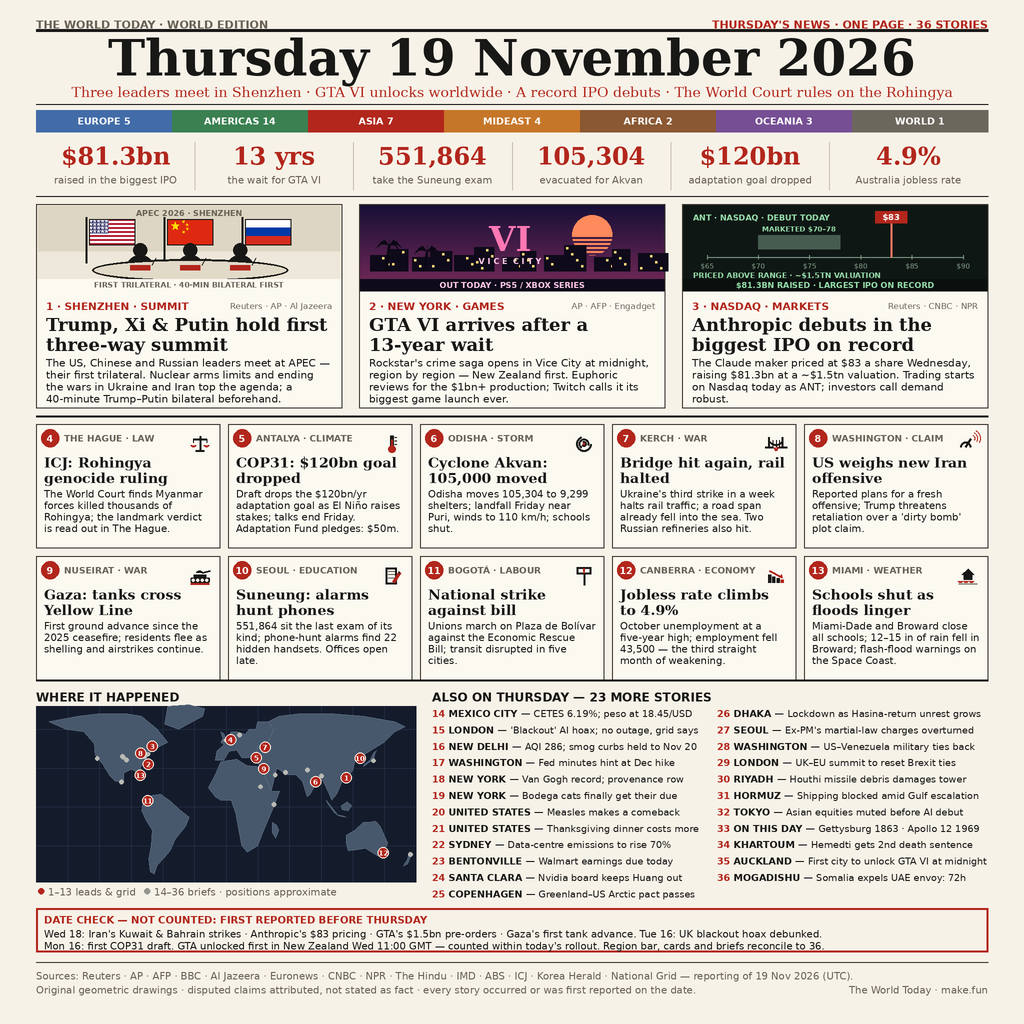
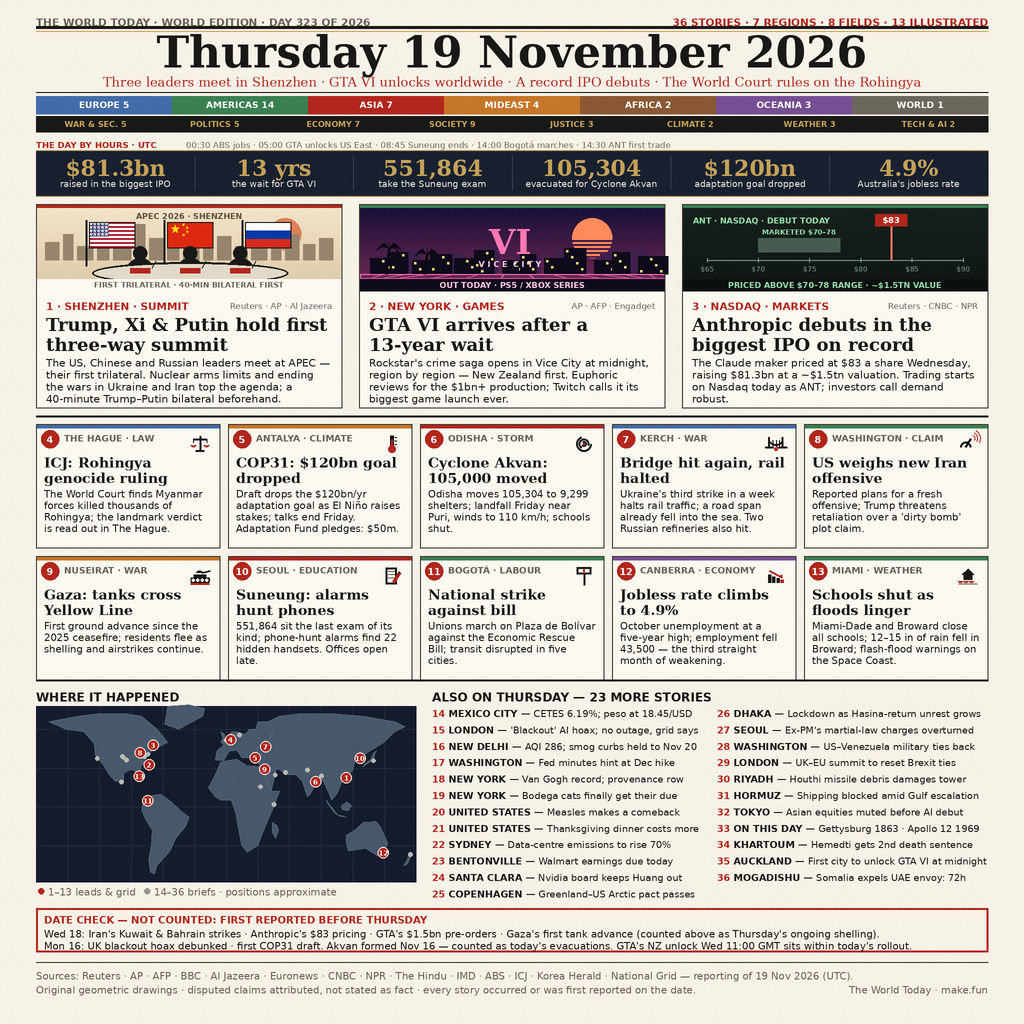
v3: dual region/field tallies, UTC ticker, navy-gold figures band, gradient skies, region card rules, paper grain; fix grid bleed, IPO caption, map spacing, date-check weekday

diff --git a/tools/make_image.py b/tools/make_image.py
@@ -26,6 +26,7 @@ CARD = (252, 249, 241)
 INK = (24, 24, 22)
 GRAY = (104, 98, 86)
 RED = (178, 38, 28)
+GOLD = (196, 162, 88)
 LINE = (60, 56, 48)
 PANEL = (238, 232, 218)
 NAVY = (20, 28, 44)
@@ -126,9 +127,19 @@ def flag_ru(d, x, y, w, h):
 # ── lead illustrations (panels 306 x 86) ─────────────────────────────────────
 
 def art_summit(d, x, y, w, h):
-    d.rectangle(R(x, y, x + w, y + h), fill=PANEL)
-    d.rectangle(R(x + 1, y + 1, x + w - 1, y + 46), fill=(222, 214, 196))
-    d.text(T(x + w / 2, y + 8), "APEC 2026 · SHENZHEN", font=font(F_SANS_B, 8), fill=GRAY, anchor="mm")
+    # gradient dusk sky, low sun, distant Shenzhen skyline — flat foreground on top
+    for i in range(int(h)):
+        t = i / h
+        d.rectangle(R(x, y + i, x + w, y + i + 1),
+                    fill=(int(242 - 22 * t), int(228 - 28 * t), int(202 - 36 * t)))
+    d.ellipse(R(x + w - 72, y + 10, x + w - 40, y + 42), fill=(224, 128, 86))
+    sil = (150, 132, 108)
+    for bx, bw, bh in [(8, 14, 18), (26, 10, 26), (40, 16, 14), (60, 12, 30), (76, 18, 20),
+                       (98, 10, 36), (112, 14, 22), (130, 12, 16), (146, 16, 28), (166, 10, 18),
+                       (180, 14, 24), (198, 12, 14), (214, 16, 32), (234, 10, 20), (248, 14, 26),
+                       (266, 12, 16), (282, 14, 22)]:
+        d.rectangle(R(x + bx, y + 52 - bh, x + bx + bw, y + 52), fill=sil)
+    d.text(T(x + w / 2, y + 8), "APEC 2026 · SHENZHEN", font=font(F_SANS_B, 8), fill=(96, 82, 62), anchor="mm")
     fy, fh, fw = y + 14, 26, 46
     for fx, fn in [(x + 52, flag_us), (x + 130, flag_cn), (x + 208, flag_ru)]:
         d.line([T(fx - 3, fy - 2), T(fx - 3, y + 58)], fill=INK, width=2 * S)
@@ -155,6 +166,9 @@ def art_gta(d, x, y, w, h):
     for i in range(5):
         yy = sy + 2 + i * 4
         d.rectangle(R(sx - sr, yy, sx + sr, yy + 1.6), fill=(int(24 + 96 * (yy - y) / h), int(16 + 26 * (yy - y) / h), int(54 + 36 * (yy - y) / h)))
+    for bx, bw, bh in [(16, 20, 12), (44, 16, 18), (84, 22, 14), (120, 18, 20),
+                       (156, 24, 12), (196, 16, 16), (240, 20, 14), (268, 18, 18)]:
+        d.rectangle(R(x + bx, y + 60 - bh, x + bx + bw, y + 66), fill=(62, 32, 78))
     buildings = [(10, 26, 16), (30, 18, 22), (52, 30, 14), (70, 22, 20), (94, 34, 16),
                  (114, 20, 24), (142, 28, 14), (160, 16, 20), (184, 32, 16), (204, 22, 26),
                  (234, 26, 14), (252, 18, 22), (278, 30, 18)]
@@ -165,6 +179,12 @@ def art_gta(d, x, y, w, h):
                 if (wi * 7 + wj * 13 + bx) % 4 == 0:
                     d.rectangle(R(x + bx + 2 + wi * 5, y + 66 - bh + 2 + wj * 6,
                                   x + bx + 4 + wi * 5, y + 66 - bh + 4 + wj * 6), fill=(255, 214, 120))
+    for gx in range(0, int(w) + 1, 24):
+        x2 = min(max(x + w / 2 + (gx - w / 2) * 1.8, x), x + w)
+        d.line([T(x + gx, y + 66), T(x2, y + 74)], fill=(255, 110, 180), width=S)
+    d.line([T(x, y + 66), T(x + w, y + 66)], fill=(255, 110, 180), width=S)
+    d.line([T(x, y + 70), T(x + w, y + 70)], fill=(200, 80, 150), width=S)
+
     def palm(px, py, ph):
         topx, topy = px + 3, py - ph
         d.polygon([T(px - 1.5, py), T(px + 1.5, py), T(topx + 1, topy), T(topx - 1, topy)], fill=(10, 8, 20))
@@ -185,7 +205,10 @@ def art_gta(d, x, y, w, h):
 
 
 def art_ipo(d, x, y, w, h):
-    d.rectangle(R(x, y, x + w, y + h), fill=(15, 23, 20))
+    for i in range(int(h)):
+        t = i / h
+        d.rectangle(R(x, y + i, x + w, y + i + 1),
+                    fill=(int(22 - 8 * t), int(32 - 10 * t), int(27 - 8 * t)))
     d.text(T(x + 10, y + 8), "ANT · NASDAQ · DEBUT TODAY", font=font(F_SANS_B, 8), fill=(150, 220, 170))
     ax0, ax1 = x + 24, x + w - 24
 
@@ -202,9 +225,8 @@ def art_ipo(d, x, y, w, h):
     d.line([T(px(83), y + 18), T(px(83), ay)], fill=(255, 120, 100), width=2 * S)
     d.rectangle(R(px(83) - 16, y + 6, px(83) + 16, y + 18), fill=RED)
     d.text(T(px(83), y + 12), "$83", font=font(F_SANS_B, 8.5), fill=(255, 255, 255), anchor="mm")
-    d.text(T(x + 10, y + 66), "PRICED ABOVE RANGE · ~$1.5TN VALUATION", font=font(F_SANS_B, 7.5), fill=(150, 220, 170))
     d.rectangle(R(x, y + h - 12, x + w, y + h), fill=(10, 16, 14))
-    d.text(T(x + w / 2, y + h - 6), "$81.3BN RAISED · LARGEST IPO ON RECORD", font=font(F_SANS_B, 8), fill=(150, 220, 170), anchor="mm")
+    d.text(T(x + w / 2, y + h - 6), "PRICED ABOVE $70–78 RANGE · ~$1.5TN VALUE", font=font(F_SANS_B, 8), fill=(150, 220, 170), anchor="mm")
 
 
 # ── grid icons (24 px boxes) ─────────────────────────────────────────────────
@@ -383,10 +405,26 @@ STATS = [
     ("$81.3bn", "raised in the biggest IPO"),
     ("13 yrs", "the wait for GTA VI"),
     ("551,864", "take the Suneung exam"),
-    ("105,304", "evacuated for Akvan"),
+    ("105,304", "evacuated for Cyclone Akvan"),
     ("$120bn", "adaptation goal dropped"),
-    ("4.9%", "Australia jobless rate"),
+    ("4.9%", "Australia's jobless rate"),
 ]
+
+# second classification axis: every story also belongs to one of eight fields
+FIELD_OF = {
+    1: "POLITICS & DIPLOMACY", 2: "SOCIETY & CULTURE", 3: "ECONOMY & LABOUR",
+    4: "JUSTICE", 5: "CLIMATE & ENVIRONMENT", 6: "DISASTERS & WEATHER",
+    7: "WAR & SECURITY", 8: "WAR & SECURITY", 9: "WAR & SECURITY",
+    10: "SOCIETY & CULTURE", 11: "ECONOMY & LABOUR", 12: "ECONOMY & LABOUR",
+    13: "DISASTERS & WEATHER", 14: "ECONOMY & LABOUR", 15: "TECH & AI",
+    16: "DISASTERS & WEATHER", 17: "ECONOMY & LABOUR", 18: "SOCIETY & CULTURE",
+    19: "SOCIETY & CULTURE", 20: "SOCIETY & CULTURE", 21: "SOCIETY & CULTURE",
+    22: "CLIMATE & ENVIRONMENT", 23: "ECONOMY & LABOUR", 24: "TECH & AI",
+    25: "POLITICS & DIPLOMACY", 26: "SOCIETY & CULTURE", 27: "JUSTICE",
+    28: "POLITICS & DIPLOMACY", 29: "POLITICS & DIPLOMACY", 30: "WAR & SECURITY",
+    31: "WAR & SECURITY", 32: "ECONOMY & LABOUR", 33: "SOCIETY & CULTURE",
+    34: "JUSTICE", 35: "SOCIETY & CULTURE", 36: "POLITICS & DIPLOMACY",
+}
 
 # stylized continent outlines (lon, lat) for the locator map
 CONTINENTS = [
@@ -440,16 +478,16 @@ def draw_map(d, x, y, w, h):
         px, py = proj(s["lon"], s["lat"])
         d.ellipse(R(px - 2.2, py - 2.2, px + 2.2, py + 2.2), fill=(186, 186, 180))
     pins = [[*proj(s["lon"], s["lat"]), s["n"]] for s in LEADS + GRID]
-    for _ in range(24):
+    for _ in range(40):
         for i in range(len(pins)):
             for j in range(i + 1, len(pins)):
                 dx = pins[j][0] - pins[i][0]
                 dy = pins[j][1] - pins[i][1]
                 dist = math.hypot(dx, dy)
-                if dist < 13.5:
+                if dist < 15:
                     if dist < 0.01:
                         dx, dy, dist = 1.0, 0.3, 1.04
-                    push = (13.5 - dist) / 2
+                    push = (15 - dist) / 2
                     ux, uy = dx / dist, dy / dist
                     pins[i][0] -= ux * push
                     pins[i][1] -= uy * push
@@ -460,6 +498,25 @@ def draw_map(d, x, y, w, h):
         py = min(max(py, y + 6), y + h - 6)
         d.ellipse(R(px - 5.5, py - 5.5, px + 5.5, py + 5.5), fill=RED, outline=PAPER, width=S)
         d.text(T(px, py + 0.3), str(n), font=font(F_SANS_B, 7), fill=(255, 255, 255), anchor="mm")
+
+
+def grain(img):
+    """Deterministic paper-grain overlay: kills the sterile-vector look."""
+    import random
+    rng = random.Random(20261119)
+    tile = Image.new("RGBA", (128, 128), (0, 0, 0, 0))
+    px = tile.load()
+    for ty in range(128):
+        for tx in range(128):
+            r = rng.random()
+            if r < 0.06:
+                v = 0 if r < 0.03 else 255
+                px[tx, ty] = (v, v, v, 10)
+    overlay = Image.new("RGBA", img.size, (0, 0, 0, 0))
+    for oy in range(0, img.size[1], 128):
+        for ox in range(0, img.size[0], 128):
+            overlay.paste(tile, (ox, oy))
+    return Image.alpha_composite(img.convert("RGBA"), overlay).convert("RGB")
 
 
 def main():
@@ -474,12 +531,15 @@ def main():
     img = Image.new("RGB", (W * S, H * S), PAPER)
     d = ImageDraw.Draw(img)
 
-    f_run = font(F_SANS_B, 11)
-    f_date = font(F_SERIF_B, 50)
-    f_deck = font(F_SERIF, 13.8)
-    f_tally = font(F_SANS_B, 9.5)
-    f_stat = font(F_SERIF_B, 24)
-    f_statcap = font(F_SANS, 10)
+    f_run = font(F_SANS_B, 10.5)
+    f_date = font(F_SERIF_B, 44)
+    f_deck = font(F_SERIF, 13)
+    f_tally = font(F_SANS_B, 9)
+    f_field = font(F_SANS_B, 8)
+    f_time = font(F_SANS, 8.5)
+    f_timeb = font(F_SANS_B, 8.5)
+    f_stat = font(F_SERIF_B, 22)
+    f_statcap = font(F_SANS, 9)
     f_kick = font(F_SANS_B, 10.5)
     f_lhead = font(F_SERIF_B, 18)
     f_lbody = font(F_SANS, 10.4)
@@ -495,14 +555,15 @@ def main():
     f_foot = font(F_SANS, 9.8)
 
     # ── running head + nameplate date ──
-    d.text(T(M, 18), "THE WORLD TODAY · WORLD EDITION", font=f_run, fill=GRAY)
-    d.text(T(W - M, 18), "THURSDAY'S NEWS · ONE PAGE · 36 STORIES", font=f_run, fill=RED, anchor="ra")
-    d.line([T(M, 30), T(W - M, 30)], fill=INK, width=3 * S)
-    d.text(T(W / 2, 58), "Thursday 19 November 2026", font=f_date, fill=INK, anchor="mm")
+    d.text(T(M, 16), "THE WORLD TODAY · WORLD EDITION · DAY 323 OF 2026", font=f_run, fill=GRAY)
+    d.text(T(W - M, 16), "36 STORIES · 7 REGIONS · 8 FIELDS · 13 ILLUSTRATED", font=f_run, fill=RED, anchor="ra")
+    d.line([T(M, 27), T(W - M, 27)], fill=INK, width=3 * S)
+    d.line([T(M, 31), T(W - M, 31)], fill=GOLD, width=S)
+    d.text(T(W / 2, 52), "Thursday 19 November 2026", font=f_date, fill=INK, anchor="mm")
     deck = "Three leaders meet in Shenzhen · GTA VI unlocks worldwide · A record IPO debuts · The World Court rules on the Rohingya"
     assert d.textlength(deck, font=f_deck) <= CW * S, "deck too wide"
-    d.text(T(W / 2, 92), deck, font=f_deck, fill=RED, anchor="mm")
-    d.line([T(M, 104), T(W - M, 104)], fill=INK, width=S)
+    d.text(T(W / 2, 82), deck, font=f_deck, fill=RED, anchor="mm")
+    d.line([T(M, 92), T(W - M, 92)], fill=INK, width=S)
 
     # ── region tally bar (counts derived from the story data) ──
     order = ["EUROPE", "AMERICAS", "ASIA", "MIDEAST", "AFRICA", "OCEANIA", "WORLD"]
@@ -510,22 +571,48 @@ def main():
     segw = CW / len(order)
     for reg in order:
         cnt = tally.get(reg, 0)
-        d.rectangle(R(tx, 110, tx + segw, 132), fill=REGIONS[reg])
-        d.text(T(tx + segw / 2, 121), f"{reg} {cnt}", font=f_tally, fill=(255, 255, 255), anchor="mm")
+        d.rectangle(R(tx, 96, tx + segw, 114), fill=REGIONS[reg])
+        d.text(T(tx + segw / 2, 105), f"{reg} {cnt}", font=f_tally, fill=(255, 255, 255), anchor="mm")
         tx += segw
 
-    # ── key figures strip ──
+    # ── field tally bar: the same 36 stories by subject ──
+    ford = ["WAR & SECURITY", "POLITICS & DIPLOMACY", "ECONOMY & LABOUR", "SOCIETY & CULTURE",
+            "JUSTICE", "CLIMATE & ENVIRONMENT", "DISASTERS & WEATHER", "TECH & AI"]
+    ftally = {}
+    for s in all_stories:
+        f = FIELD_OF[s["n"]]
+        ftally[f] = ftally.get(f, 0) + 1
+    assert sum(ftally.values()) == 36 and len(ftally) == 8
+    d.rectangle(R(M, 116, W - M, 132), fill=INK)
+    fshort = {"WAR & SECURITY": "WAR & SEC.", "POLITICS & DIPLOMACY": "POLITICS",
+              "ECONOMY & LABOUR": "ECONOMY", "SOCIETY & CULTURE": "SOCIETY",
+              "JUSTICE": "JUSTICE", "CLIMATE & ENVIRONMENT": "CLIMATE",
+              "DISASTERS & WEATHER": "WEATHER", "TECH & AI": "TECH & AI"}
+    fw = CW / 8
+    for i, f in enumerate(ford):
+        label = f"{fshort[f]} {ftally[f]}"
+        assert d.textlength(label, font=f_field) <= (fw - 4) * S, f"field label too wide: {label}"
+        d.text(T(M + i * fw + fw / 2, 124), label, font=f_field, fill=GOLD, anchor="mm")
+
+    # ── the day by hours (UTC anchors verified from the reporting) ──
+    d.text(T(M, 140), "THE DAY BY HOURS · UTC", font=f_timeb, fill=RED)
+    ticker = "00:30 ABS jobs · 05:00 GTA unlocks US East · 08:45 Suneung ends · 14:00 Bogotá marches · 14:30 ANT first trade"
+    assert d.textlength(ticker, font=f_time) <= (CW - 150) * S, "ticker too wide"
+    d.text(T(M + 150, 140), ticker, font=f_time, fill=GRAY)
+
+    # ── key figures: navy band, gold serif figures ──
+    d.rectangle(R(M, 150, W - M, 196), fill=(24, 32, 48))
+    d.line([T(M, 150), T(W - M, 150)], fill=GOLD, width=S)
+    d.line([T(M, 196), T(W - M, 196)], fill=GOLD, width=S)
     cellw = CW / 6
     for i, (num, cap) in enumerate(STATS):
         cx = M + i * cellw
         if i:
-            d.line([T(cx, 142), T(cx, 190)], fill=(200, 193, 178), width=S)
-        d.text(T(cx + cellw / 2, 156), num, font=f_stat, fill=RED, anchor="mm")
+            d.line([T(cx, 156), T(cx, 190)], fill=(52, 62, 82), width=S)
+        d.text(T(cx + cellw / 2, 168), num, font=f_stat, fill=GOLD, anchor="mm")
         lines = wrap(d, cap, f_statcap, cellw - 12)
-        assert len(lines) <= 2, f"stat caption too long: {cap}"
-        for j, ln in enumerate(lines):
-            d.text(T(cx + cellw / 2, 174 + j * 11), ln, font=f_statcap, fill=GRAY, anchor="ma")
-    d.line([T(M, 196), T(W - M, 196)], fill=INK, width=S)
+        assert len(lines) == 1, f"stat caption wraps: {cap}"
+        d.text(T(cx + cellw / 2, 184), cap, font=f_statcap, fill=(232, 228, 216), anchor="mm")
 
     # ── three lead cards ──
     lw, lh, lgap = (CW - 2 * 17) / 3, 204, 17
@@ -533,7 +620,8 @@ def main():
         x0 = M + i * (lw + lgap)
         y0 = 204
         d.rectangle(R(x0, y0, x0 + lw, y0 + lh), fill=CARD, outline=LINE, width=S)
-        s["art"](d, x0 + 1, y0 + 1, lw - 2, 86)
+        d.rectangle(R(x0 + 1, y0 + 1, x0 + lw - 1, y0 + 4), fill=REGIONS[s["region"]])
+        s["art"](d, x0 + 1, y0 + 4, lw - 2, 83)
         d.text(T(x0 + 10, y0 + 96), f"{s['n']} · {s['city']} · {s['topic']}", font=f_kick, fill=RED)
         d.text(T(x0 + lw - 10, y0 + 97), s["src"], font=f_src, fill=GRAY, anchor="ra")
         hy = para(d, (x0 + 10, y0 + 110), s["head"], f_lhead, lw - 20, INK, 1.12, maxlines=2)
@@ -549,8 +637,9 @@ def main():
         x0 = M + c * (gw + ggap)
         y0 = 424 + r * (gh + ggap)
         d.rectangle(R(x0, y0, x0 + gw, y0 + gh), fill=CARD, outline=LINE, width=S)
-        d.ellipse(R(x0 + 5, y0 + 5, x0 + 23, y0 + 23), fill=RED)
-        d.text(T(x0 + 14, y0 + 14.3), str(s["n"]), font=font(F_SANS_B, 9.5), fill=(255, 255, 255), anchor="mm")
+        d.rectangle(R(x0 + 1, y0 + 1, x0 + gw - 1, y0 + 4), fill=REGIONS[s["region"]])
+        d.ellipse(R(x0 + 5, y0 + 6, x0 + 23, y0 + 24), fill=RED)
+        d.text(T(x0 + 14, y0 + 15.3), str(s["n"]), font=font(F_SANS_B, 9.5), fill=(255, 255, 255), anchor="mm")
         d.text(T(x0 + 28, y0 + 9), f"{s['city']} · {s['topic']}", font=f_gkick, fill=GRAY)
         s["icon"](d, x0 + gw - 20, y0 + 20, 22)
         hy = para(d, (x0 + 8, y0 + 30), s["head"], f_ghead, gw - 16, INK, 1.1, maxlines=2)
@@ -588,8 +677,8 @@ def main():
     # ── date check box ──
     d.rectangle(R(M, 908, W - M, 952), outline=RED, width=2 * S)
     d.text(T(M + 8, 914), "DATE CHECK — NOT COUNTED: FIRST REPORTED BEFORE THURSDAY", font=f_dcb, fill=RED)
-    l1 = "Wed 18: Iran's Kuwait & Bahrain strikes · Anthropic's $83 pricing · GTA's $1.5bn pre-orders · Gaza's first tank advance. Tue 16: UK blackout hoax debunked."
-    l2 = "Mon 16: first COP31 draft. GTA unlocked first in New Zealand Wed 11:00 GMT — counted within today's rollout. Region bar, cards and briefs reconcile to 36."
+    l1 = "Wed 18: Iran's Kuwait & Bahrain strikes · Anthropic's $83 pricing · GTA's $1.5bn pre-orders · Gaza's first tank advance (counted above as Thursday's ongoing shelling)."
+    l2 = "Mon 16: UK blackout hoax debunked · first COP31 draft. Akvan formed Nov 16 — counted as today's evacuations. GTA's NZ unlock Wed 11:00 GMT sits within today's rollout."
     for ln in (l1, l2):
         assert d.textlength(ln, font=f_dc) <= (CW - 16) * S, f"date check line too wide: {ln[:50]}"
     d.text(T(M + 8, 928), l1, font=f_dc, fill=INK)
@@ -601,6 +690,7 @@ def main():
     d.text(T(M, 984), "Original geometric drawings · disputed claims attributed, not stated as fact · every story occurred or was first reported on the date.", font=f_foot, fill=GRAY)
     d.text(T(W - M, 984), "The World Today · make.fun", font=f_foot, fill=GRAY, anchor="ra")
 
+    img = grain(img)
     final = img.resize((W, H), Image.LANCZOS)
     out = ROOT / "entry.png"
     final.save(out, optimize=True)

diff --git a/README.md b/README.md
@@ -11,11 +11,13 @@ Entry for make.fun's bounty **"Sum up 19 November's world news in one image"**
 and copies `entry.png` to `/output/entry.png`. The image is a 1024×1024
 broadsheet-style front page carrying **36 stories, every one occurring or first
 reported on Thursday 19 November 2026 (UTC)**: 3 illustrated leads, 10 numbered
-grid stories and 23 numbered briefs, with a region tally bar, a key-figures
-strip, a "Where it happened" locator map and a DATE CHECK box listing the
-earlier-week items that were deliberately not counted. All artwork is original
-geometric drawing rendered by `tools/make_image.py` (Pillow) at 2× and
-downsampled with Lanczos; no photographs or third-party art.
+grid stories and 23 numbered briefs, with dual region/field tally bars, a UTC
+day-by-hours ticker, a navy-and-gold key-figures band, a "Where it happened"
+locator map and a DATE CHECK box reasoning about the earlier-week items that
+were deliberately not counted. All artwork is original geometric drawing
+rendered by `tools/make_image.py` (Pillow) at 2× with gradient skies and a
+deterministic paper grain, downsampled with Lanczos; no photographs or
+third-party art.
 
 - **Leads:** the first-ever Trump–Xi–Putin trilateral summit at APEC in
   Shenzhen; GTA VI's worldwide launch after a 13-year wait; Anthropic's
@@ -45,7 +47,7 @@ mkdir -p out && MAKEFUN_OUTPUT_DIR=out python3 main.py
 ```
 
 Offline and deterministic: both runs write identical bytes. The PNG is
-~660 KB, 1024×1024, within the bounty's 1 MiB / 1024 px caps; `main.py`
+~960 KB, 1024×1024, within the bounty's 1 MiB / 1024 px caps; `main.py`
 verifies the PNG signature, size and dimensions before copying.
 
 ## Build
